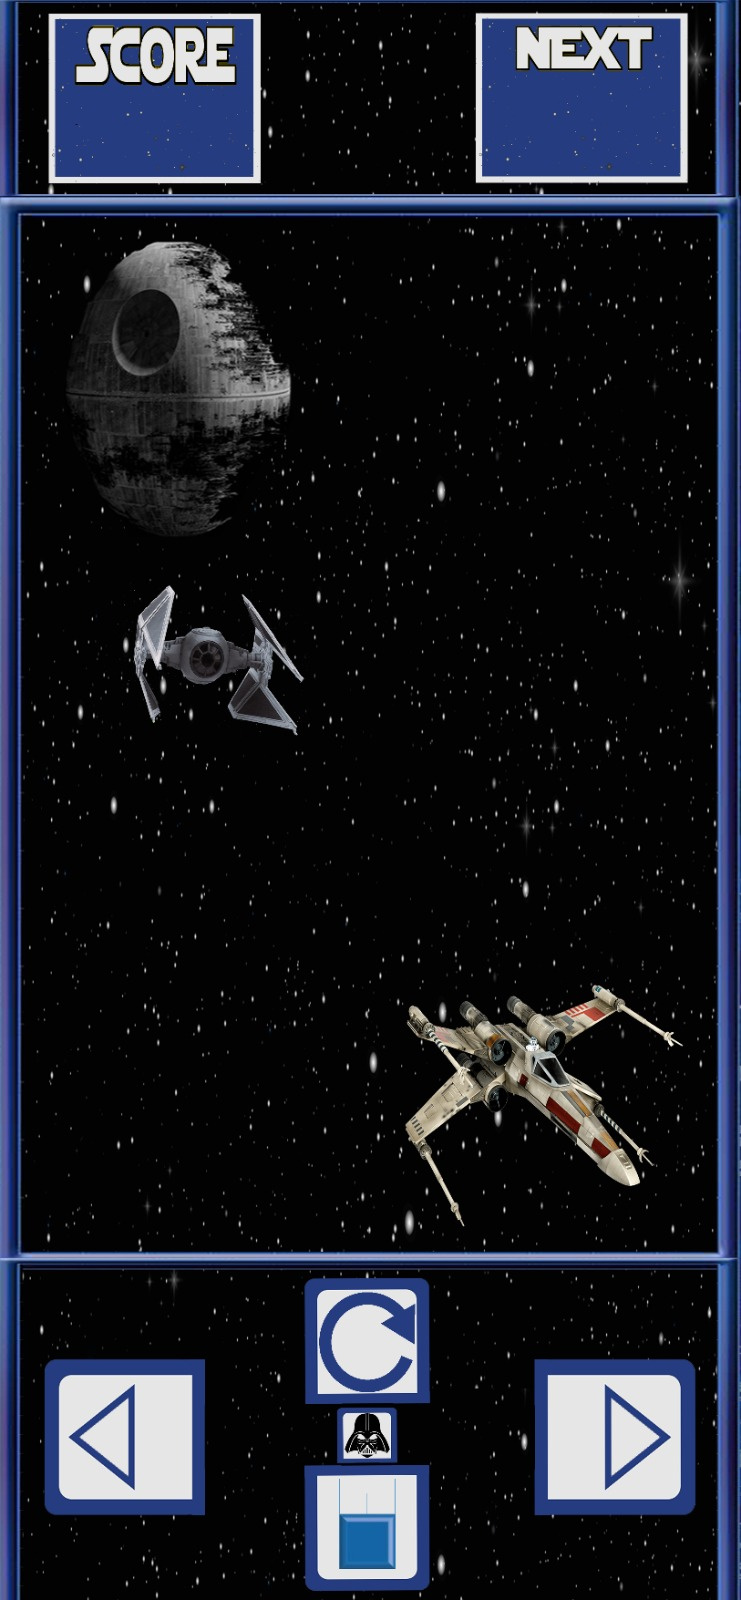
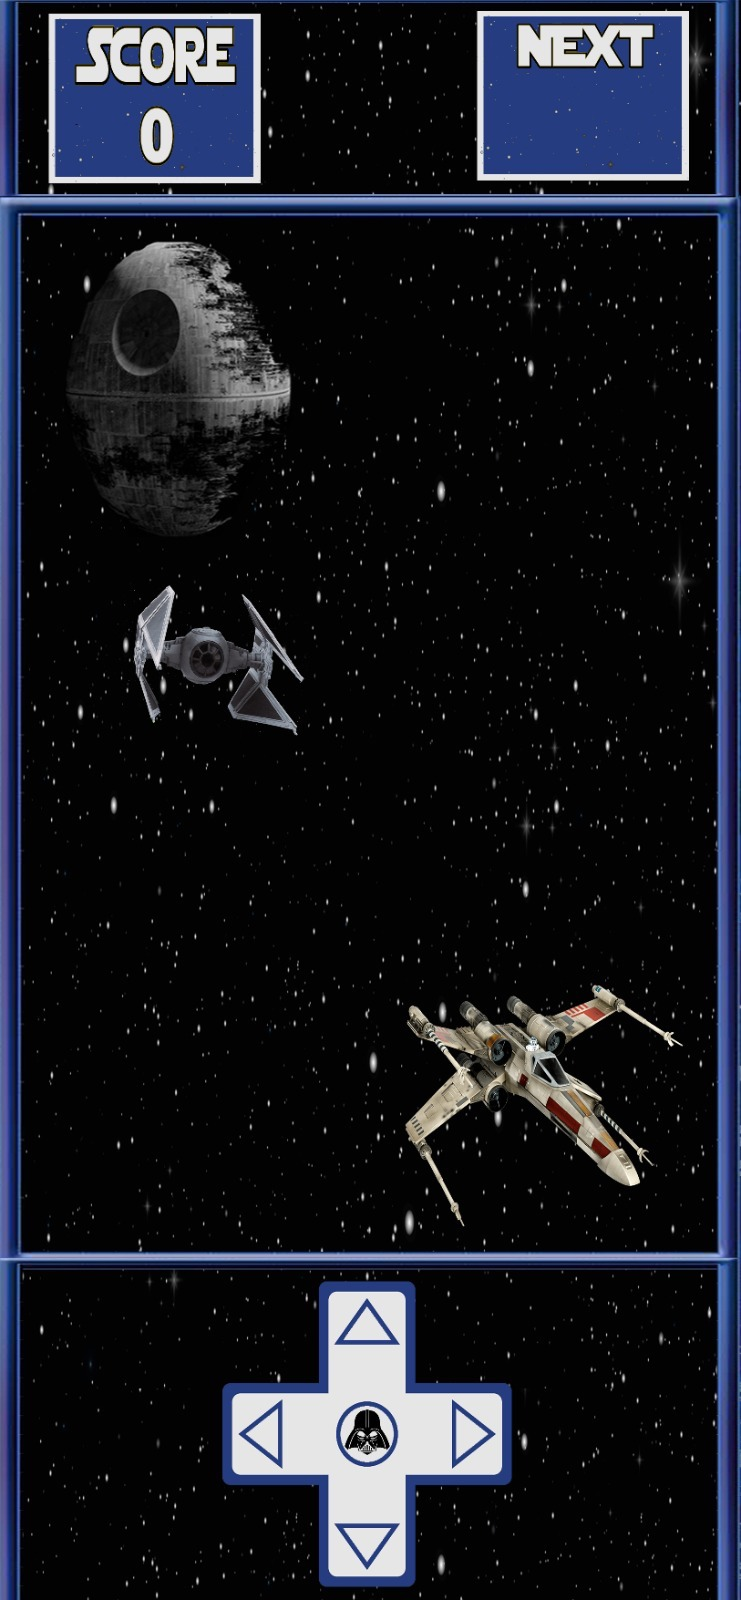
Revert "Merge branch 'develop' of https://github.com/Almansad/ttrispo into develop"
This reverts commit 02ec55746a7910d0702c5fc045d438f4b7a7788a, reversing
changes made to 3f4b4370b17286f92634a02c2c8cf85eb58b6d74.

Changed region(s): [[0.0621, 0.7812, 0.9622, 1.0], [0.6208, 0.0, 0.9312, 0.125], [0.1862, 0.0625, 0.2483, 0.125]]

diff --git a/core/src/com/mygdx/ttrispo/Tablero.java b/core/src/com/mygdx/ttrispo/Tablero.java
@@ -60,7 +60,7 @@ public class Tablero extends Actor {
         super.act(delta);
     }
 
-    public void  cambiarBloque(int bloques[][], int tipo) {
+    public void cambiarBloque(int bloques[][], int tipo) {
         int columnas, filas;
         for (int i = 0; i < bloques.length; i++) {
             columnas = bloques[i][1];
@@ -97,10 +97,7 @@ public class Tablero extends Actor {
         }
         return false;
     }
-    /*
-    A REFACTORIZAR.
-    El numero de filas y columnas. No consigo obtener correctamente el el numero
-     */
+
     public boolean comprobarLineaCompleta() {
         int numeroColumnas = 10;
         int filas = 20;
@@ -112,10 +109,11 @@ public class Tablero extends Actor {
                 }
 
             }
+
             if(valorFila==numeroColumnas){
                 System.out.println("Premio");
                 eliminarfila(i);
-                bajarFilaAnterior(i);
+                //bajarFilaAnterior();
             }
 
             valorFila =0;
@@ -124,24 +122,13 @@ public class Tablero extends Actor {
     }
 
     private void eliminarfila(int fila) {
-        for(int j=0; j<10;j++){
-            tablero[j][fila]=0;
+        for(int j=0; j<this.tablero[fila].length;j++){
+            tablero[fila][j]=0;
         }
     }
 
-    /*
-    se recoge la fila eliminada y desde ahi hasta arriba se copia la fila anterior en la actual.
-    Habria que darle una vuelta en el siguiente sprint porque es un poco chapuza.
-  */
-    /*
-    Posible refatorizacion: Si son todpo 0 pues que no baje mas, pero eso ya mas adelante
-     */
-    private void bajarFilaAnterior(int fila) {
-        for(;fila>0;fila--){
-            for(int c=0;c<10;c++){
-                tablero[c][fila]= tablero[c][fila-1];
-            }
-        }
-
-    }
+    /*private void bajarFilaAnterior(int fila) {
+        //implementando.....
+        //TODO
+    }*/
 }

diff --git a/core/src/com/mygdx/ttrispo/Procesador.java b/core/src/com/mygdx/ttrispo/Procesador.java
@@ -1,6 +1,5 @@
 package com.mygdx.ttrispo;
 
-import com.badlogic.gdx.Gdx;
 import com.badlogic.gdx.InputAdapter;
 import com.mygdx.ttrispo.Pantalla.GestorEstado;
 
@@ -11,31 +10,7 @@ public class Procesador extends InputAdapter {
     }
     @Override
     public boolean touchDown(int screenX, int screenY, int pointer, int button) {
-        int altoMax = Gdx.graphics.getHeight();
-        int anchoMax = Gdx.graphics.getWidth();
-        //Demomento lo vamos a resolver por sectores.
-        /*7
-        De 0 a max/3 iz de max/3 a 2max/3 arriba y abajo y el resto derecha
-         */
-        if((screenY>(0.78*altoMax))&& (screenY <altoMax)){
-            if(screenX<(anchoMax/3)){
-                gestorEstado.setEstado(gestorEstado.IZQUIERDA);
-            }
-            else if ((screenX>(anchoMax/3))&& (screenX<(anchoMax*2/3))){
-                //no hacia bien el calculo dentro del if.
-                double zona1=0.89*altoMax;
-                double zona0= 0.78*altoMax;
-                if ((screenY>zona0)&&(screenY<zona1)){
-                    gestorEstado.setEstado(gestorEstado.GIRO);
-                }else {
-                    gestorEstado.setEstado(gestorEstado.CAER);
-                }
-                System.out.println("Zona centro");
-            }else{
-                gestorEstado.setEstado(gestorEstado.DERECHA);
-            }
-
-        }
+        gestorEstado.setEstado(gestorEstado.GIRO);
         return true;
     }
 
